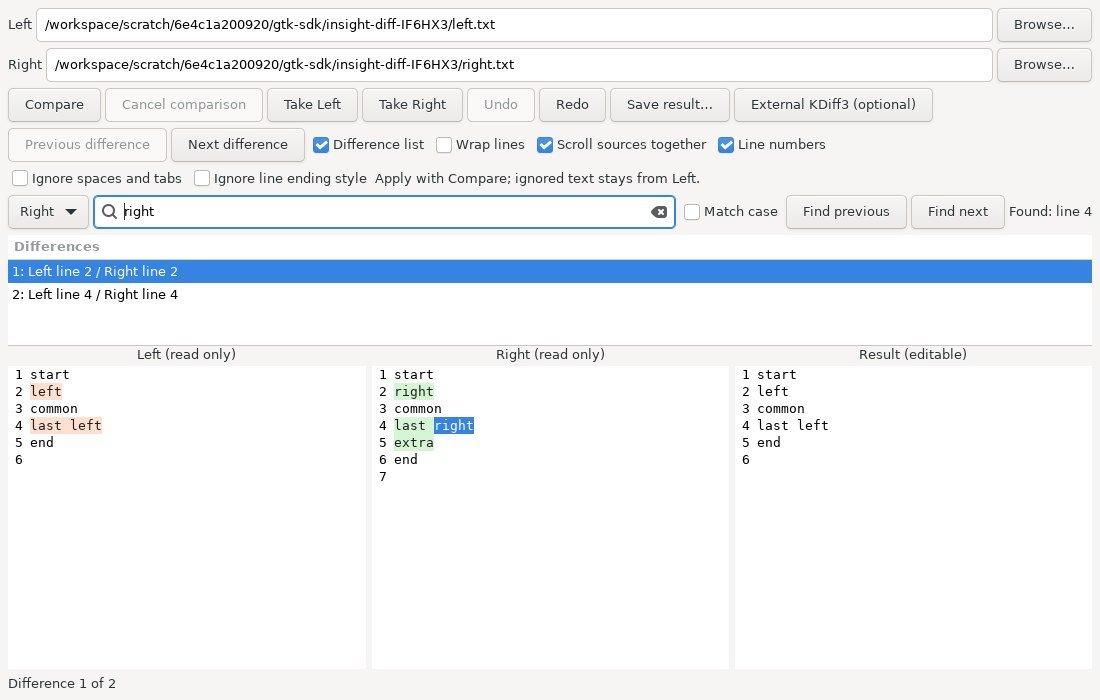
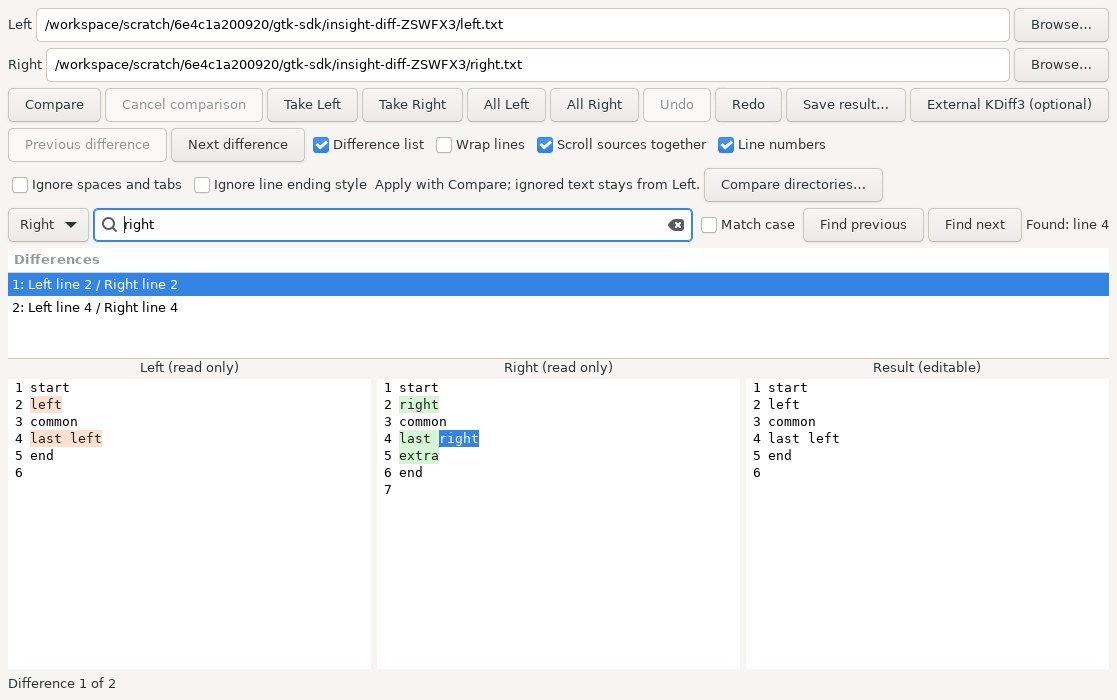
Take all merge blocks in a single reversible action

diff --git a/src/insight-diff.c b/src/insight-diff.c
@@ -10,7 +10,7 @@
 
 typedef struct { gchar *text; gint *positions; } Snapshot;
 typedef struct {
- GtkWidget *window,*paths[2],*views[3],*status,*undo,*redo,*take[2],*external;
+ GtkWidget *window,*paths[2],*views[3],*status,*undo,*redo,*take[2],*take_all[2],*external;
  GtkWidget *find_entry,*find_side,*find_case,*find_previous,*find_next,*find_status,*numbers;
  GtkWidget *compare_button,*cancel_button,*save_button; GCancellable *cancel; gboolean busy;
  GtkWidget *previous,*next,*list_scroll,*sync,*ignore_space,*ignore_eol; GtkAdjustment *adjustments[2]; gboolean scrolling;
@@ -64,6 +64,8 @@ static void restore(Merge *m,guint position) {
 static void undo(GtkWidget *w,gpointer data) { (void)w;Merge *m=data;if(m->position) restore(m,m->position-1); }
 static void redo(GtkWidget *w,gpointer data) { (void)w;Merge *m=data;if(m->position+1<m->history->len) restore(m,m->position+1); }
 static void navigate(Merge *m,gint direction);
+static void take(GtkWidget *,gpointer);
+static void take_all(GtkWidget *,gpointer);
 static void find_text(Merge *m,gboolean backwards);
 static void focus_find(Merge *m) {
  GtkWidget *focus=gtk_window_get_focus(GTK_WINDOW(m->window));
@@ -79,6 +81,10 @@ static gboolean key(GtkWidget *w,GdkEventKey *event,gpointer data) {
   gtk_widget_grab_focus(m->views[gtk_combo_box_get_active(GTK_COMBO_BOX(m->find_side))]);return TRUE;
  }
  if(m->busy) return FALSE;
+ if((event->state&GDK_MOD1_MASK) && (event->keyval==GDK_KEY_Left || event->keyval==GDK_KEY_Right)) {
+  gint side=event->keyval==GDK_KEY_Right;
+  if(event->state&GDK_SHIFT_MASK) take_all(m->take_all[side],m);else take(m->take[side],m);return TRUE;
+ }
  if(!(event->state&GDK_CONTROL_MASK)) return FALSE;
  if(event->keyval==GDK_KEY_Up || event->keyval==GDK_KEY_Down) {
   navigate(data,event->keyval==GDK_KEY_Up ? -1 : 1);return TRUE;
@@ -232,7 +238,10 @@ static void highlight(Merge *m,int side,size_t begin,size_t end) {
 }
 static void selection(GtkTreeSelection *s,gpointer data) {
  (void)s;Merge *m=data;gint id=selected(m);
- for(int side=0;side<2;side++) gtk_widget_set_sensitive(m->take[side],!m->busy && id>=0);
+ for(int side=0;side<2;side++) {
+  gtk_widget_set_sensitive(m->take[side],!m->busy && id>=0);
+  gtk_widget_set_sensitive(m->take_all[side],!m->busy && m->diff.count>0);
+ }
  gtk_widget_set_sensitive(m->previous,m->diff.count && id!=0);
  gtk_widget_set_sensitive(m->next,m->diff.count && (id<0 || (size_t)(id+1)<m->diff.count));
  if(id<0 || (size_t)id>=m->diff.count) return;
@@ -258,6 +267,31 @@ static void take(GtkWidget *w,gpointer data) {
  m->changing=TRUE;gtk_text_buffer_begin_user_action(result(m));
  gtk_text_buffer_delete(result(m),&a,&z);gtk_text_buffer_insert(result(m),&a,m->sources[side]+begin,(gint)(end-begin));
  gtk_text_buffer_end_user_action(result(m));m->changing=FALSE;record(m);selection(NULL,m);
+}
+/* Snapshot every range before editing. Reverse replacement leaves earlier
+ * offsets stable; touching/collapsed boundaries after manual edits are rejected. */
+static void take_all(GtkWidget *widget,gpointer data) {
+ Merge *m=data;if(m->busy || !m->diff.count) return;
+ gint side=widget==m->take_all[1];gint *ranges=g_new(gint,2*m->diff.count);gboolean any=FALSE;
+ for(size_t i=0;i<m->diff.count;i++) {
+  GtkTextIter a,z;gtk_text_buffer_get_iter_at_mark(result(m),&a,m->marks[2*i]);gtk_text_buffer_get_iter_at_mark(result(m),&z,m->marks[2*i+1]);
+  ranges[2*i]=gtk_text_iter_get_offset(&a);ranges[2*i+1]=gtk_text_iter_get_offset(&z);
+  if(ranges[2*i]>ranges[2*i+1] || (i && ranges[2*i]<=ranges[2*i-1])) {
+   g_free(ranges);message(m,"Block boundaries overlap or touch after edits; compare again before taking all blocks.");return;
+  }
+  InsightDiffHunk *h=&m->diff.hunks[i];size_t begin=side ? h->b_begin : h->a_begin,end=side ? h->b_end : h->a_end;
+  gchar *text=gtk_text_buffer_get_text(result(m),&a,&z,TRUE);
+  if(strlen(text)!=end-begin || memcmp(text,m->sources[side]+begin,end-begin)) any=TRUE;
+  g_free(text);
+ }
+ if(!any) { g_free(ranges);return; }
+ m->changing=TRUE;gtk_text_buffer_begin_user_action(result(m));
+ for(size_t i=m->diff.count;i-->0;) {
+  InsightDiffHunk *h=&m->diff.hunks[i];size_t begin=side ? h->b_begin : h->a_begin,end=side ? h->b_end : h->a_end;
+  GtkTextIter a,z;gtk_text_buffer_get_iter_at_offset(result(m),&a,ranges[2*i]);gtk_text_buffer_get_iter_at_offset(result(m),&z,ranges[2*i+1]);
+  gtk_text_buffer_delete(result(m),&a,&z);gtk_text_buffer_insert(result(m),&a,m->sources[side]+begin,(gint)(end-begin));
+ }
+ gtk_text_buffer_end_user_action(result(m));m->changing=FALSE;g_free(ranges);record(m);selection(NULL,m);
 }
 static void choose(GtkWidget *w,gpointer data) {
  Merge *m=data;int side=GPOINTER_TO_INT(g_object_get_data(G_OBJECT(w),"side"));
@@ -391,6 +425,8 @@ static Merge *merge_new(GtkWidget *parent) {
  }
  GtkWidget *bar=gtk_box_new(GTK_ORIENTATION_HORIZONTAL,4);gtk_box_pack_start(GTK_BOX(box),bar,FALSE,FALSE,0);
  m->compare_button=button(bar,"Compare",G_CALLBACK(compare),m);gtk_widget_set_name(m->compare_button,"insight-diff-compare");m->cancel_button=button(bar,"Cancel comparison",G_CALLBACK(cancel_compare),m);gtk_widget_set_sensitive(m->cancel_button,FALSE);m->take[0]=button(bar,"Take Left",G_CALLBACK(take),m);m->take[1]=button(bar,"Take Right",G_CALLBACK(take),m);
+ m->take_all[0]=button(bar,"All Left",G_CALLBACK(take_all),m);m->take_all[1]=button(bar,"All Right",G_CALLBACK(take_all),m);
+ gtk_widget_set_tooltip_text(m->take_all[0],"Take all difference blocks from Left — one Undo");gtk_widget_set_tooltip_text(m->take_all[1],"Take all difference blocks from Right — one Undo");
  m->undo=button(bar,"Undo",G_CALLBACK(undo),m);m->redo=button(bar,"Redo",G_CALLBACK(redo),m);m->save_button=button(bar,"Save result…",G_CALLBACK(save),m);
  m->external=button(bar,"External KDiff3 (optional)",G_CALLBACK(external),m);
  GtkWidget *options=gtk_box_new(GTK_ORIENTATION_HORIZONTAL,4);gtk_box_pack_start(GTK_BOX(box),options,FALSE,FALSE,0);

diff --git a/insight/tests/diff_gui_test.c b/insight/tests/diff_gui_test.c
@@ -19,6 +19,20 @@ static void finalized(gpointer data,GObject *object) { (void)object;*(gboolean*)
 static void assert_text(Merge *m,const char *expected) {
  gchar *s=contents(result(m));g_assert_cmpstr(s,==,expected);g_free(s);
 }
+static gchar *random_text(GRand *random) {
+ const gchar *lines[]={"a\n","b\r\n","\n","я\r","tail"};GString *text=g_string_new(NULL);
+ guint count=g_rand_int_range(random,0,15);for(guint i=0;i<count;i++) g_string_append(text,lines[g_rand_int_range(random,0,G_N_ELEMENTS(lines))]);return g_string_free(text,FALSE);
+}
+static void random_batches(const gchar *left,const gchar *right) {
+ Merge *m=merge_new(NULL);GRand *random=g_rand_new_with_seed(1093);GError *error=NULL;
+ gtk_entry_set_text(GTK_ENTRY(m->paths[0]),left);gtk_entry_set_text(GTK_ENTRY(m->paths[1]),right);
+ for(guint i=0;i<150;i++) {
+  gchar *a=random_text(random),*b=random_text(random);g_assert_true(g_file_set_contents(left,a,-1,&error));g_assert_no_error(error);g_assert_true(g_file_set_contents(right,b,-1,&error));g_assert_no_error(error);
+  compare(NULL,m);wait_comparison(m);assert_text(m,a);take_all(m->take_all[1],m);assert_text(m,b);undo(NULL,m);assert_text(m,a);
+  g_free(a);g_free(b);
+ }
+ g_rand_free(random);gtk_widget_destroy(m->window);flush();
+}
 int main(int argc,char **argv) {
  gtk_init(&argc,&argv);
  GError *error=NULL;gchar *dir=g_dir_make_tmp("insight-diff-XXXXXX",&error);g_assert_no_error(error);
@@ -66,6 +80,16 @@ int main(int argc,char **argv) {
   GdkPixbuf *pixels=gdk_pixbuf_get_from_window(window,0,0,gdk_window_get_width(window),gdk_window_get_height(window));g_assert_nonnull(pixels);
   g_assert_true(gdk_pixbuf_save(pixels,capture,"jpeg",&error,"quality","88",NULL));g_assert_no_error(error);g_object_unref(pixels);
  }
+ guint before_all=m->position;take_all(m->take_all[0],m);g_assert_cmpuint(m->position,==,before_all);
+ take_all(m->take_all[1],m);assert_text(m,b);g_assert_cmpuint(m->position,==,before_all+1);undo(NULL,m);assert_text(m,a);redo(NULL,m);assert_text(m,b);
+ take_all(m->take_all[0],m);assert_text(m,a);undo(NULL,m);assert_text(m,b);undo(NULL,m);assert_text(m,a);
+ event.state=GDK_MOD1_MASK|GDK_SHIFT_MASK;event.keyval=GDK_KEY_Right;g_assert_true(key(m->views[2],&event,m));assert_text(m,b);undo(NULL,m);assert_text(m,a);
+ /* Edits outside the blocks survive a batch. */
+ GtkTextIter insertion;gtk_text_buffer_get_end_iter(result(m),&insertion);gtk_text_buffer_insert(result(m),&insertion,"manual tail\n",-1);
+ take_all(m->take_all[1],m);gchar *with_tail=g_strconcat(b,"manual tail\n",NULL);assert_text(m,with_tail);g_free(with_tail);undo(NULL,m);undo(NULL,m);assert_text(m,a);
+ /* Collapsing boundaries must reject a batch without mutating text/history. */
+ GtkTextIter zero,last;gtk_text_buffer_get_bounds(result(m),&zero,&last);gtk_text_buffer_delete(result(m),&zero,&last);
+ guint collapsed=m->position;take_all(m->take_all[1],m);assert_text(m,"");g_assert_cmpuint(m->position,==,collapsed);g_assert_nonnull(strstr(gtk_label_get_text(GTK_LABEL(m->status)),"boundaries"));undo(NULL,m);assert_text(m,a);
  GtkWidget *toggle=gtk_check_button_new();g_object_ref_sink(toggle);
  gtk_toggle_button_set_active(GTK_TOGGLE_BUTTON(toggle),TRUE);wrap(GTK_TOGGLE_BUTTON(toggle),m);
  for(int i=0;i<3;i++) g_assert_cmpint(gtk_text_view_get_wrap_mode(GTK_TEXT_VIEW(m->views[i])),==,GTK_WRAP_WORD_CHAR);
@@ -126,7 +150,7 @@ int main(int argc,char **argv) {
  compare(NULL,m);gtk_widget_destroy(m->window);
  gint64 until=g_get_monotonic_time()+10*G_TIME_SPAN_SECOND;
  while(!gone && g_get_monotonic_time()<until) { flush();g_usleep(1000); }
- g_assert_true(gone);flush();
+ g_assert_true(gone);flush();random_batches(left,right);
  g_remove(left);g_remove(right);g_rmdir(dir);g_free(left);g_free(right);g_free(dir);
  g_print("Production Diff/Merge fixture: navigation, search, gutters, merge history, options, worker cancellation and close passed.\n");return 0;
 }

diff --git a/insight/docs/en/internal-diff.md b/insight/docs/en/internal-diff.md
@@ -143,3 +143,18 @@ while a new comparison is pending, so a save dialog cannot overlap replacement
 of the result. The GTK fixture verifies save-control sensitivity.
 
 [Directory Compare — compare directory trees and open a selected pair](directory-compare.md).
+
+## Take all blocks
+
+**All Left / All Right** replaces every difference block in the separate result
+as one Undo action. Text manually edited outside the blocks is preserved. Taking
+an already matching side does not add history. Undo/Redo restores block marks
+with the text, and editing after Undo replaces the redo branch.
+
+**Alt+Left / Alt+Right** takes the selected Left/Right block. Add Shift to take
+all blocks. These shortcuts act inside the comparison window and write only
+the result buffer. If manual edits made block boundaries touch or overlap, batch
+replacement refuses the operation and asks for a fresh comparison. No partial
+batch is applied. The production GTK fixture covers single-step undo, no-op,
+manual outside text, collapsed boundaries, shortcuts and 150 randomized exact
+batch reconstructions, including empty, UTF-8 and mixed-EOL sources.

diff --git a/insight/docs/internal-diff.md b/insight/docs/internal-diff.md
@@ -143,3 +143,18 @@ while a new comparison is pending, so a save dialog cannot overlap replacement
 of the result. The GTK fixture verifies save-control sensitivity.
 
 [Directory Compare — compare directory trees and open a selected pair](directory-compare.md).
+
+## Take all blocks
+
+**All Left / All Right** replaces every difference block in the separate result
+as one Undo action. Text manually edited outside the blocks is preserved. Taking
+an already matching side does not add history. Undo/Redo restores block marks
+with the text, and editing after Undo replaces the redo branch.
+
+**Alt+Left / Alt+Right** takes the selected Left/Right block. Add Shift to take
+all blocks. These shortcuts act inside the comparison window and write only
+the result buffer. If manual edits made block boundaries touch or overlap, batch
+replacement refuses the operation and asks for a fresh comparison. No partial
+batch is applied. The production GTK fixture covers single-step undo, no-op,
+manual outside text, collapsed boundaries, shortcuts and 150 randomized exact
+batch reconstructions, including empty, UTF-8 and mixed-EOL sources.
